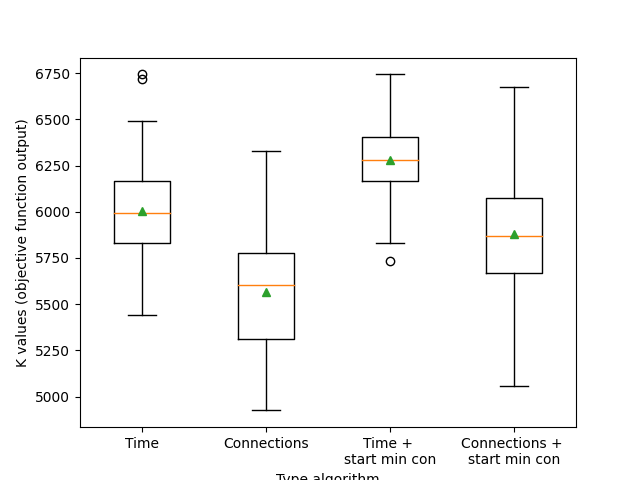
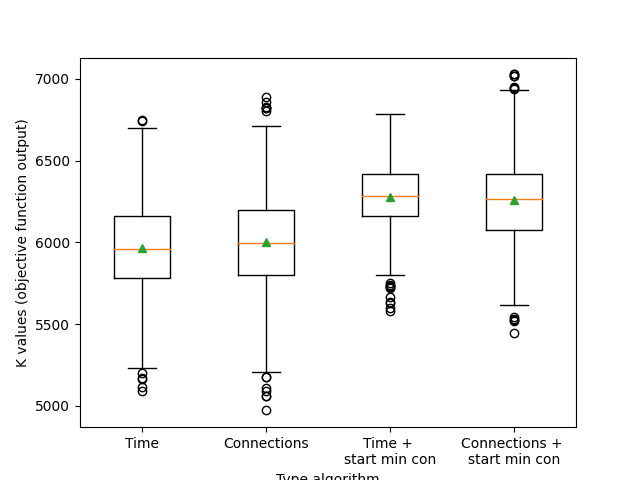
changing boxplot layout for greedy algorithm

diff --git a/program/boxplot.py b/program/boxplot.py
@@ -29,9 +29,6 @@ def boxplot(iteration, which_regions = 'holland', start = 'random'):
             solutions.append(k)
             succes += 1
     
-    # # calculate the percentage of viable outputted solutions
-    # percentage_succes = (succes/iteration) * 100
-    
     # run the random algorithm x number of times
     for j in range(iteration):
         k1 = run('greedy_conn', which_regions, start)
@@ -50,9 +47,6 @@ def boxplot(iteration, which_regions = 'holland', start = 'random'):
             solutions2.append(k2)
             succes2 += 1
     
-    # # calculate the percentage of viable outputted solutions
-    # percentage_succes = (succes/iteration) * 100
-    
     # run the random algorithm x number of times
     for m in range(iteration):
         k3 = run('greedy_conn', which_regions, start = 'min_con')
@@ -62,8 +56,11 @@ def boxplot(iteration, which_regions = 'holland', start = 'random'):
             solutions3.append(k3)
             succes3 += 1
     
-    # # calculate the percentage of viable outputted solutions
-    # percentage_succes1 = (succes1/iteration) * 100
+    # calculate the percentage of viable outputted solutions
+    percentage_succes = (succes/iteration) * 100
+    percentage_succes1 = (succes1/iteration) * 100
+    percentage_succes2 = (succes2/iteration) * 100
+    percentage_succes3 = (succes3/iteration) * 100
 
     data = [solutions, solutions1, solutions2, solutions3]
 
@@ -74,7 +71,7 @@ def boxplot(iteration, which_regions = 'holland', start = 'random'):
     # plt.title(f"Baseline functionality (valid solutions: {percentage_succes} %), {iteration} runs")
     plt.xlabel("Type algorithm")
     plt.ylabel("K values (objective function output)")
-    plt.xticks([1, 2, 3, 4], ['Time', 'Connections', 'Time + \nstart min con', 'Connections + \nstart min con'])
+    plt.xticks([1, 2, 3, 4], [f'Time\n(valid solutions: {percentage_succes})', f'Connections\n(valid solutions: {percentage_succes1})', f'Time +\nstart min con\n(valid solutions: {percentage_succes2})', f'Connections + \nstart min con\n(valid solutions: {percentage_succes3})'])
 
     # plt.axvline(mean(solutions), color = 'k', linestyle = 'dashed')
     # min_ylim, max_ylim = plt.ylim()

diff --git a/main.py b/main.py
@@ -6,22 +6,18 @@ from program.boxplot import boxplot
 from program.algorithm import run
 
 run()
-# create a network and run the algorithm
-# you can fill in 'nl' if you want to calculate trajectory for the whole netherlands
-# you can fill in 'min_con' if you want to start the trajectories at stations with minimal connections
-data_tuple = run('nl', 'min_con')
+# # create a network and run the algorithm
+# # you can fill in 'nl' if you want to calculate trajectory for the whole netherlands
+# # you can fill in 'min_con' if you want to start the trajectories at stations with minimal connections
+# data_tuple = run('nl', 'min_con')
 
-# save data from the run
-n = data_tuple[0]
-trains = data_tuple[1]
+# # save data from the run
+# n = data_tuple[0]
+# trains = data_tuple[1]
 
-# visualize the data
-visualize(n, trains, 'nl')
+# # visualize the data
+# visualize(n, trains, 'nl')
 
 # hist(1000)
 
-<<<<<<< HEAD
-#boxplot(100, 'nl')
-=======
-# boxplot(100, 'nl')
->>>>>>> 3efe5a78d08f1118ef2668cf60f6dc3ebd1bc583
+boxplot(1000, 'nl')
